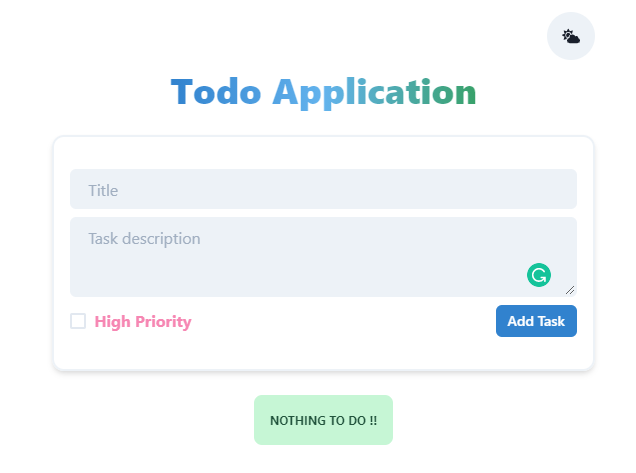
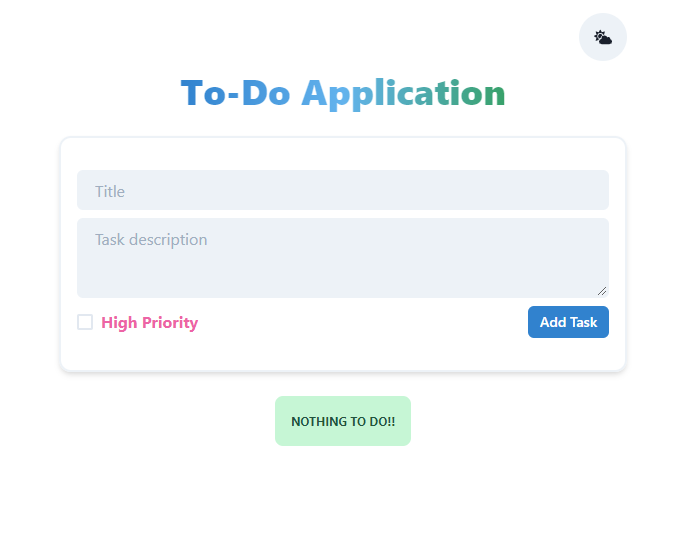
readme update | text change

diff --git a/src/App.js b/src/App.js
@@ -76,7 +76,7 @@ function App() {
 				bgClip="text"
 				marginBottom="16px !important"
 			>
-				To Do Application
+				To-Do Application
 			</Heading>
 
 			<EditTodo.Provider value={[ editTodo, setEditTodo ]}>

diff --git a/README.md b/README.md
@@ -17,8 +17,8 @@ npm start
 - Sort with priority.
 - Remove task.
 - Edit and update.
-- Show toast message if user try to add empty title.
-- Show message if there have not any task to do.
+- Show toast message if the user tries to add an empty title.
+- Show message if there has not no task to do.
 - Local Storage.
 - Dark Mode.
 - Responsive.
